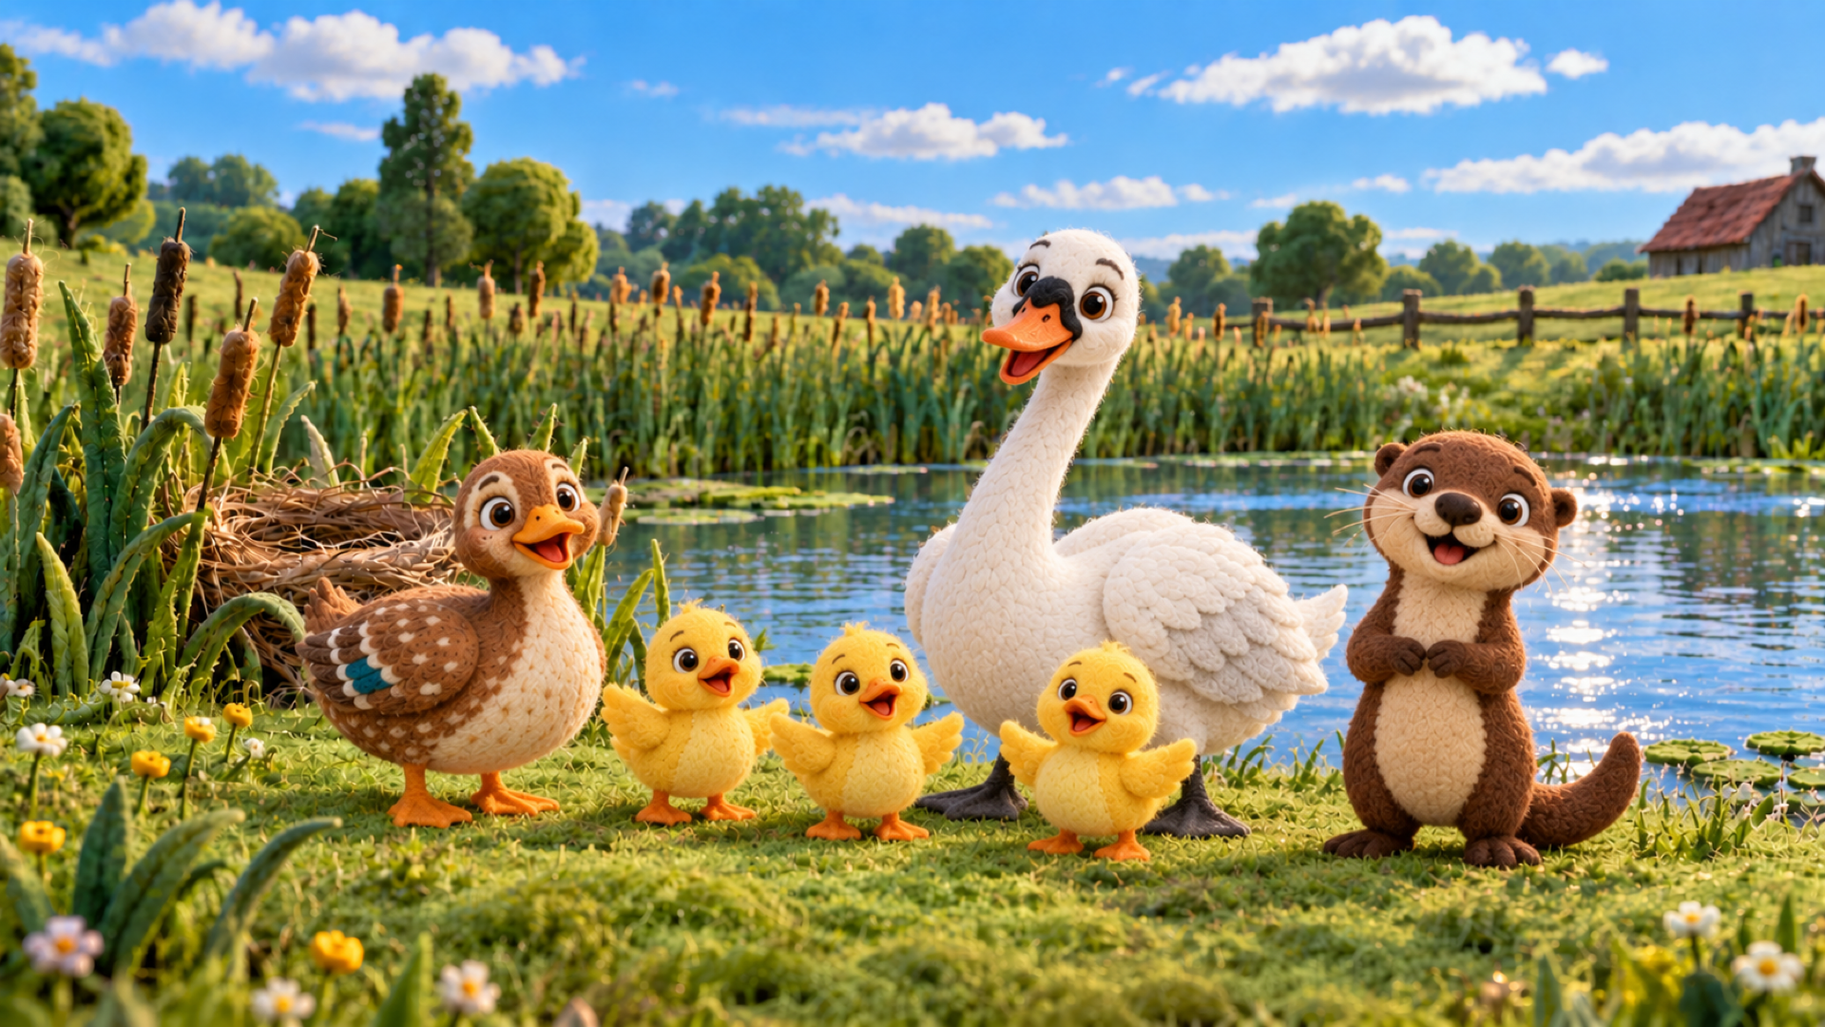
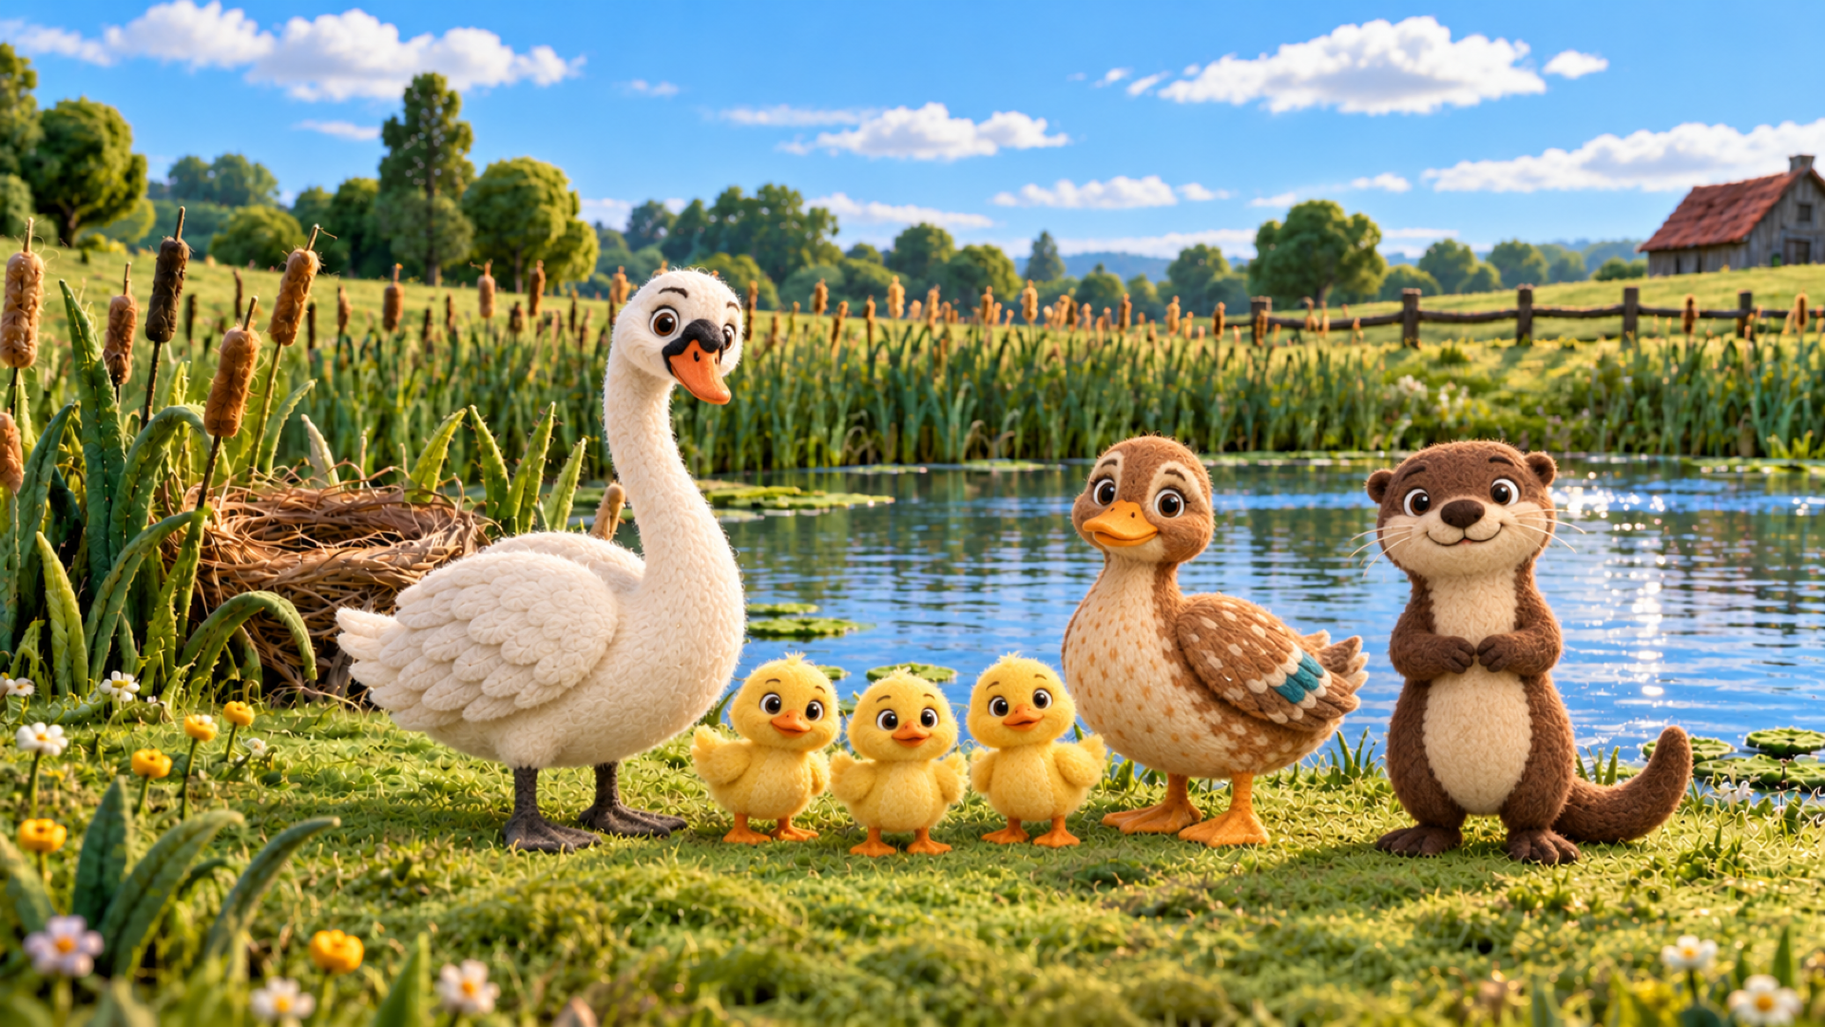
scene 12 ugly duckling

diff --git a/stories/ugly_duckling_v1/README.md b/stories/ugly_duckling_v1/README.md
@@ -4,14 +4,14 @@ Fourth story of *Feltwillow*: Hans Christian Andersen's ugly duckling (public do
 
 Moral: *Everyone grows in their own way and in their own time; being different is nothing to be ashamed of, and kindness to someone who feels different can help them find where they belong.*
 
-## Status (2026-10-07)
+## Status (2026-10-08)
 
 - Documentation packet is complete: 65 script lines (about 7.7 minutes of narration), 44 shots, 54 foundation and expression image records and 102 scene image records, one superseded (including 13 `<shot>_open` talking key frames, CR-19). Prompts are rendered from `visual_bible.json`; lint reports 0 errors.
 - **CR-01 approved:** the owner confirmed reading and approved the script and shot order on 2026-10-05. The first canonical is `SWANS_CANON`.
 - **Image status:** all six character canonicals are owner-approved (2026-10-05). Their identity text and palettes were updated from the images in `visual_bible.json`; rendered prompts rebuilt and lint passes with 0 errors and 0 warnings. `LINEUP` was generated with all six canonical identities represented as references and saved at `character/characters/ugly_duckling_v1/interactions/lineup_r01.png` (1920×1080). The saved lineup was reopened and checked for cast count, left-to-right order, shared baseline and relative sizes; the owner approved it on 2026-10-05. The lineup is the full-cast comparison image; the two swan references are paired left/right at `character/characters/ugly_duckling_v1/interactions/.review/lineup_swans_reference_pair.png` to fit the image tool's five-reference limit.
 - Measured on the owner-approved LINEUP: adult swans 0.75 and 0.64 of frame height, Ottie 0.41, Mama Duck 0.38, cygnet Ollie 0.22 and duckling 0.14. Cast proportions and every setup size were updated from these measurements. At the owner’s direction, `O_SWIM` and `O_WALK_R` were generated and are awaiting review. The owner then directed generation of all remaining foundation records from `prompts/foundation.md`, continuing at line 121. All 23 records after `O_WALK_R` were generated at their manifest targets: six pose studies, ten mouth studies and seven environment plates. They are marked `accepted_pending_owner_review`. After owner feedback that the pond variants changed the nest and scenery, the corrected morning and day variants were made as direct lighting edits from `pond_evening_r01.png`. The owner replaced the earlier files and renamed the corrected variants `pond_morning_r01.png` and `pond_day_r01.png`; all scene-frame references and bible plate paths now point to those current r01 files. The earlier drift happened because morning was generated without an image reference, then day and evening were independently generated from it; the model reinterpreted the scene despite geometry instructions. Final prompt rebuild and lint report 0 errors and 0 warnings. Review sheets: [character studies](review/foundation_characters_contact_sheet.png) and [environment plates](review/foundation_plates_contact_sheet.png). At the owner’s direction, all 22 expression records in `prompts/expressions.md` were generated from their ordered closed-mouth portrait and canonical identity references, saved to manifest targets, and marked `accepted_pending_owner_review`; [expression contact sheet](review/expressions_contact_sheet.png).
 - Character descriptions and palettes now follow the six owner-approved canonical images; further changes require owner review.
-- **Scene frames:** at the owner’s direction, Scenes 01–10 have been generated from the rendered prompt records with built-in ImageGen and saved at their manifest targets. For Scene 08, the empty spring start is an exact copy of its locked lake plate to preserve the background pixel-for-pixel; the paired end adds blossoms on the water. The two-character goodbye start/end and the grown-swan flight start/end were generated using their ordered world-state, plate, identity, expression, pose and size references; mouth poses were corrected to stay closed per the shot descriptions. All six Scene 08 frames are pending owner review; see the [Scene 08 contact sheet](review/contact_sheets/scene-08_contact_sheet.png). The goodbye prompt says the snow has nearly melted, but the locked winter plate remains fully snow-covered; resolve that story/plate mismatch during owner review. Scene 09’s seven frames (including Ollie’s open-mouth dialogue key) are pending owner review; the [Scene 09 contact sheet](review/contact_sheets/scene-09_contact_sheet.png) is ready. The swans face screen-right at the start and screen-left at the end of their lake shot. Scene 10’s ten frames are generated at their manifest targets and pending owner review; the [Scene 10 contact sheet](review/contact_sheets/scene-10_contact_sheet.png) is ready. The reflection pair uses the same lake composition and the end frame shows a clear vertical mirror as the ripples calm. Ollie and the adult swan each have closed-bill welcome/amazed keys plus a separate open-bill mouth key. The three-swans swim-together start was re-rendered with closed bills to match the dialogue-free shot. Scene 11 is in progress but paused after the owner identified a head-shape mismatch between Ollie the swan’s canonical and expression/mouth studies. A revised `ollie_swan_canonical_r02_candidate.png` and comparison sheet are in `character/characters/ugly_duckling_v1/OllieSwan/canonical/.review/`. Scene 11 frames generated before this correction use the old canonical and must be regenerated after the new canonical is approved; `os_open_r01.png` currently duplicates the closed happy expression and needs a proper open-mouth revision. Scene 06 has 14 active frames awaiting owner review; the superseded `s06_ottie_stays_end` record is retained for provenance. The owner renamed the helping endpoint to `s06_ottie_approaches_end_r01.png` and duplicated the original start as `s06_ottie_finds_end_r01.png`, making the burrow hold an identical start/end pair. The superseded `s06_ottie_stays_end_r01.png` keyframe file was removed at the owner’s request; its manifest record and hidden raw image remain for provenance. The contact sheet is [scene 06](review/contact_sheets/scene-06_contact_sheet.png). Scene 07’s four keyframes have their own [contact sheet](review/contact_sheets/scene-07_contact_sheet.png) and are pending owner review. The prompt manifest was rebuilt and lint passes with 0 errors and 0 warnings.
+- **Scene frames:** at the owner’s direction, Scenes 01–10 have been generated from the rendered prompt records with built-in ImageGen and saved at their manifest targets. For Scene 08, the empty spring start is an exact copy of its locked lake plate to preserve the background pixel-for-pixel; the paired end adds blossoms on the water. The two-character goodbye start/end and the grown-swan flight start/end were generated using their ordered world-state, plate, identity, expression, pose and size references; mouth poses were corrected to stay closed per the shot descriptions. All six Scene 08 frames are pending owner review; see the [Scene 08 contact sheet](review/contact_sheets/scene-08_contact_sheet.png). The goodbye prompt says the snow has nearly melted, but the locked winter plate remains fully snow-covered; resolve that story/plate mismatch during owner review. Scene 09’s seven frames (including Ollie’s open-mouth dialogue key) are pending owner review; the [Scene 09 contact sheet](review/contact_sheets/scene-09_contact_sheet.png) is ready. The swans face screen-right at the start and screen-left at the end of their lake shot. Scene 10’s ten frames are generated at their manifest targets and pending owner review; the [Scene 10 contact sheet](review/contact_sheets/scene-10_contact_sheet.png) is ready. The reflection pair uses the same lake composition and the end frame shows a clear vertical mirror as the ripples calm. Ollie and the adult swan each have closed-bill welcome/amazed keys plus a separate open-bill mouth key. The three-swans swim-together start was re-rendered with closed bills to match the dialogue-free shot. Scene 12’s four frames are generated and pending owner review; see the [Scene 12 contact sheet](review/contact_sheets/scene-12_contact_sheet.png). All bills and mouths are closed to match the dialogue-free video variants. Since the planned `s11_ducklings_sorry_end` carry-forward image is missing while Scene 11 is paused, `s11_arrives_home_start` was used only as a size anchor for the first Scene 12 frame; the locked pond plate and canonical-only character guide board were attached. Scene 11 is in progress but paused after the owner identified a head-shape mismatch between Ollie the swan’s canonical and expression/mouth studies. A revised `ollie_swan_canonical_r02_candidate.png` and comparison sheet are in `character/characters/ugly_duckling_v1/OllieSwan/canonical/.review/`. Scene 11 frames generated before this correction use the old canonical and must be regenerated after the new canonical is approved; `os_open_r01.png` currently duplicates the closed happy expression and needs a proper open-mouth revision. Scene 06 has 14 active frames awaiting owner review; the superseded `s06_ottie_stays_end` record is retained for provenance. The owner renamed the helping endpoint to `s06_ottie_approaches_end_r01.png` and duplicated the original start as `s06_ottie_finds_end_r01.png`, making the burrow hold an identical start/end pair. The superseded `s06_ottie_stays_end_r01.png` keyframe file was removed at the owner’s request; its manifest record and hidden raw image remain for provenance. The contact sheet is [scene 06](review/contact_sheets/scene-06_contact_sheet.png). Scene 07’s four keyframes have their own [contact sheet](review/contact_sheets/scene-07_contact_sheet.png) and are pending owner review. The prompt manifest was rebuilt and lint passes with 0 errors and 0 warnings.
 
 - **Scene 03 pond continuity audit (2026-10-07):** The owner flagged nest and pond-width drift across `to_the_water`, `ollie_glides` and `honk`. Root cause: the three end records had no locked-plate reference, so the model could redraw the setting when changing poses; even with the plate attached, ImageGen can reinterpret small background details and crop. All six keyframes were regenerated from scratch in shot order with `pond_day_r01.png` attached, plus the manifest-listed identity, staging or edit-base references. The regenerated frames share the plate’s nest, reeds, fence, barn, shoreline and pond width closely across the sequence, but are not pixel-identical plate composites. Their [contact sheet](review/contact_sheets/s03_pond_keyframes_recreated_2026-10-07.png) is ready; the six manifest records are accepted pending owner review. For exact background lock in future work, keep the plate pixels and composite character layers over them rather than asking ImageGen to redraw the full scene.
 
@@ -54,6 +54,8 @@ Size lineup: At equal depth, with Mama Duck's height as 1.0: each duckling 0.35,
 
 
 ## Owner decisions
+
+- 2026-10-08: owner directed completion of Scene 12. Its four frames were generated in order and saved at manifest targets. The missing `s11_ducklings_sorry_end` dependency was replaced by the available `s11_arrives_home_start` as a size anchor only; the pond plate and canonical-only identity board were attached. The frame prompts require closed bills/mouths to match their video variants. The contact sheet is `review/contact_sheets/scene-12_contact_sheet.png`; owner review is pending.
 
 - 2026-10-07: owner reported Scene 03 pond-background drift and then directed the six `to_the_water`, `ollie_glides` and `honk` keyframes to be deleted and recreated from scratch. The previous targets were archived under `character/characters/ugly_duckling_v1/interactions/keyframes/.review/s03_background_drift_before_recreation/`; six new frames were generated with the pond plate attached, saved at the same active targets, and reviewed together in `review/contact_sheets/s03_pond_keyframes_recreated_2026-10-07.png`. Background landmarks are visually consistent across the sequence, with small image-model redraw/crop variation; owner review is pending.
 

diff --git a/CLAUDE.md b/CLAUDE.md
@@ -43,14 +43,22 @@ images named by the v4 expression records (history; they matter only for regener
 expressions), plus 8 warnings for owner-renamed v5 files; renders use `export_runtime.py --images`.
 Sections below that name v2-v4 paths describe history.
 
-## Current state (2026-10-07)
+## Current state (2026-10-08)
+
+**Live work:** the Ugly Duckling v1 scene images (the two Ugly Duckling bullets
+below) and The Lion and the Mouse v5 take selection (see "What this repo is").
+The v4-named bullets further down — **V4 stills**, **Open image issues**, and
+**Video and audio** ("no v4 clips") — are retained as **history**: v2–v4 were
+deleted (recover from git history, `git show b880c23:<path>`) and v5 clips are
+rendered. The guidance bullets (creation rules, prompt templates, per-story
+image folders) remain current.
 
 - **Owner's current instruction (latest, 2026-10-02):** the owner creates the
   v4 images personally. Agents generate no images, clips, audio or GPU jobs
   unless the owner asks for it in that session; audits, documentation and code
   work continue. Superseded task statements are listed under the standing
   instructions below.
-- **Ugly Duckling v1 scenes:** at the owner’s direction, scene keyframes through Scene 10 are generated with built-in ImageGen and saved at manifest targets; all remain pending owner review. Scene 06 has 14 active frames across 6 shots after the owner split `s06_ottie_finds` into a burrow-watch shot and an approach/help shot. The owner renamed the help image to `s06_ottie_approaches_end_r01.png` and duplicated the original start as `s06_ottie_finds_end_r01.png`; the earlier generated hold-end is superseded. Scene 06 contact sheet: `stories/ugly_duckling_v1/review/contact_sheets/scene-06_contact_sheet.png`; Scene 07’s four frames and contact sheet are `stories/ugly_duckling_v1/review/contact_sheets/scene-07_contact_sheet.png`. Scene 08’s six keyframes are generated and pending owner review at `stories/ugly_duckling_v1/review/contact_sheets/scene-08_contact_sheet.png`; its empty spring start is copied from the locked plate, goodbye and flight mouths are closed per shot descriptions. The goodbye prompt’s “snow has nearly melted” state conflicts with the fully snowy locked winter plate and needs owner review. Scene 09’s seven keyframes and contact sheet are `stories/ugly_duckling_v1/review/contact_sheets/scene-09_contact_sheet.png`; its swan lake start/end face in different directions. Scene 10’s ten keyframes and contact sheet are `stories/ugly_duckling_v1/review/contact_sheets/scene-10_contact_sheet.png`; the reflection end is a clear vertical mirror, speech mouth keys are separate from closed-bill expressions, and the swim-together start explicitly keeps all three bills closed. Scene 11 was started, then paused when the owner identified a head-shape mismatch between Ollie the swan’s canonical and expression/mouth references. An r02 canonical candidate and comparison sheet are staged in `character/characters/ugly_duckling_v1/OllieSwan/canonical/.review/`; generated Scene 11 keyframes must be redone after canonical approval, and `os_open_r01.png` currently duplicates the closed happy expression pending a proper open-mouth replacement. The superseded `s06_ottie_stays_end_r01.png` target file was removed at the owner’s request; its manifest record and raw `.review` source remain for provenance. `s09_ollie_bows_start_r01.png` remains active because the video and end frame use it. Scene prompt lint is 0 errors and 0 warnings. Details and outstanding review are in `stories/ugly_duckling_v1/README.md`.
+- **Ugly Duckling v1 scenes:** at the owner’s direction, scene keyframes through Scene 10 are generated with built-in ImageGen and saved at manifest targets; all remain pending owner review. Scene 06 has 14 active frames across 6 shots after the owner split `s06_ottie_finds` into a burrow-watch shot and an approach/help shot. The owner renamed the help image to `s06_ottie_approaches_end_r01.png` and duplicated the original start as `s06_ottie_finds_end_r01.png`; the earlier generated hold-end is superseded. Scene 06 contact sheet: `stories/ugly_duckling_v1/review/contact_sheets/scene-06_contact_sheet.png`; Scene 07’s four frames and contact sheet are `stories/ugly_duckling_v1/review/contact_sheets/scene-07_contact_sheet.png`. Scene 08’s six keyframes are generated and pending owner review at `stories/ugly_duckling_v1/review/contact_sheets/scene-08_contact_sheet.png`; its empty spring start is copied from the locked plate, goodbye and flight mouths are closed per shot descriptions. The goodbye prompt’s “snow has nearly melted” state conflicts with the fully snowy locked winter plate and needs owner review. Scene 09’s seven keyframes and contact sheet are `stories/ugly_duckling_v1/review/contact_sheets/scene-09_contact_sheet.png`; its swan lake start/end face in different directions. Scene 10’s ten keyframes and contact sheet are `stories/ugly_duckling_v1/review/contact_sheets/scene-10_contact_sheet.png`; the reflection end is a clear vertical mirror, speech mouth keys are separate from closed-bill expressions, and the swim-together start explicitly keeps all three bills closed. Scene 12’s four frames are generated and pending owner review at `stories/ugly_duckling_v1/review/contact_sheets/scene-12_contact_sheet.png`; bills and mouths are closed per the video variants. Because `s11_ducklings_sorry_end` is missing while Scene 11 is paused, `s11_arrives_home_start` served only as the first Scene 12 frame’s size anchor, with the locked pond plate and canonical-only identity board attached. Scene 11 was started, then paused when the owner identified a head-shape mismatch between Ollie the swan’s canonical and expression/mouth references. An r02 canonical candidate and comparison sheet are staged in `character/characters/ugly_duckling_v1/OllieSwan/canonical/.review/`; generated Scene 11 keyframes must be redone after canonical approval, and `os_open_r01.png` currently duplicates the closed happy expression pending a proper open-mouth replacement. The superseded `s06_ottie_stays_end_r01.png` target file was removed at the owner’s request; its manifest record and raw `.review` source remain for provenance. `s09_ollie_bows_start_r01.png` remains active because the video and end frame use it. Scene prompt lint is 0 errors and 0 warnings. Details and outstanding review are in `stories/ugly_duckling_v1/README.md`.
 - **Ugly Duckling Scene 03 pond continuity:** on 2026-10-07 the owner flagged pond/nest drift and directed all six frames in `to_the_water`, `ollie_glides` and `honk` to be deleted and recreated. The old files are archived in `character/characters/ugly_duckling_v1/interactions/keyframes/.review/s03_background_drift_before_recreation/`; six replacements were generated with `pond_day_r01.png` attached and saved to the active manifest targets. Their landmarks are visually consistent across the sequence but small background redraw/crop differences remain because ImageGen does not pixel-lock a supplied plate. They are pending owner review; see `stories/ugly_duckling_v1/review/contact_sheets/s03_pond_keyframes_recreated_2026-10-07.png` and `stories/ugly_duckling_v1/README.md`. For exact plate preservation, composite character layers onto the original plate.
 - **V4 stills** (counted from `stories/lion_and_mouse_v4/prompt_manifest.json`):
   140 image records, the 118 planned ones (32 foundation: 2 canonicals,

diff --git a/stories/ugly_duckling_v1/prompts/scene-12.md b/stories/ugly_duckling_v1/prompts/scene-12.md
@@ -5,7 +5,7 @@ Generated by `python3 production/image_prompts.py md` from `../prompt_manifest.j
 ## Image s12_family_start
 
 - Target: `character/characters/ugly_duckling_v1/interactions/keyframes/s12_family_start_r01.png`
-- Status: `planned` · revision `r01`
+- Status: `accepted` · revision `r01` · review `accepted_pending_owner_review`
 - Kind: `scene` · setup `pond_spring_wide` · framing `scene_wide`
 - Canvas: 1920 × 1080
 - Ordered references:
@@ -20,7 +20,7 @@ Create one 1920x1080 16:9 still image: the start frame of shot s12_family, a wid
 ## Image s12_family_end
 
 - Target: `character/characters/ugly_duckling_v1/interactions/keyframes/s12_family_end_r01.png`
-- Status: `planned` · revision `r01`
+- Status: `accepted` · revision `r01` · review `accepted_pending_owner_review`
 - Kind: `scene` · setup `pond_spring_wide` · framing `scene_wide`
 - Canvas: 1920 × 1080
 - Ordered references:
@@ -35,7 +35,7 @@ Create one 1920x1080 16:9 still image: the end frame of shot s12_family, a wide 
 ## Image s12_end_start
 
 - Target: `character/characters/ugly_duckling_v1/interactions/keyframes/s12_end_start_r01.png`
-- Status: `planned` · revision `r01`
+- Status: `accepted` · revision `r01` · review `accepted_pending_owner_review`
 - Kind: `scene` · setup `pond_spring_wide` · framing `scene_wide`
 - Canvas: 1920 × 1080
 - Ordered references:
@@ -50,7 +50,7 @@ Create one 1920x1080 16:9 still image: the start frame of shot s12_end, a wide s
 ## Image s12_end_end
 
 - Target: `character/characters/ugly_duckling_v1/interactions/keyframes/s12_end_end_r01.png`
-- Status: `planned` · revision `r01`
+- Status: `accepted` · revision `r01` · review `accepted_pending_owner_review`
 - Kind: `scene` · setup `pond_spring_wide` · framing `scene_wide`
 - Canvas: 1920 × 1080
 - Ordered references:

diff --git a/stories/ugly_duckling_v1/prompts/scene-06.md b/stories/ugly_duckling_v1/prompts/scene-06.md
@@ -248,7 +248,7 @@ Ollie shivers in the snow and lifts his head weakly. Mouths stay closed througho
 
 - Start `s06_ottie_finds_start` → end `s06_ottie_finds_end` · cast: ottie, ollie
 
-### s06_ottie_finds_closed_r01 (closed) · start `s06_ottie_finds_start` → end `s06_ottie_stays_end`
+### s06_ottie_finds_closed_r01 (closed) · start `s06_ottie_finds_start` → end `s06_ottie_finds_end`
 
 Ottie watches Ollie shiver from the burrow, staying safely inside while Ollie keeps his gaze down. Mouths stay closed throughout; expressions come from the eyes and brows. Fixed camera; the background stays still apart from gentle natural motion. Ottie is one upright chocolate-brown wool-felt otter with cream muzzle and chest, round dark nose, pale whiskers and a long curled tail. Ollie is one young warm dove-grey wool-felt cygnet with pale cheeks and chest, slate-grey bill, long charcoal legs and broad webbed feet. The background is the frozen river in winter, unchanged framing and light. Handcrafted matte wool-felt stop-motion miniature, tactile fibres and stitching, softly lit, sharp readable subjects.
 
